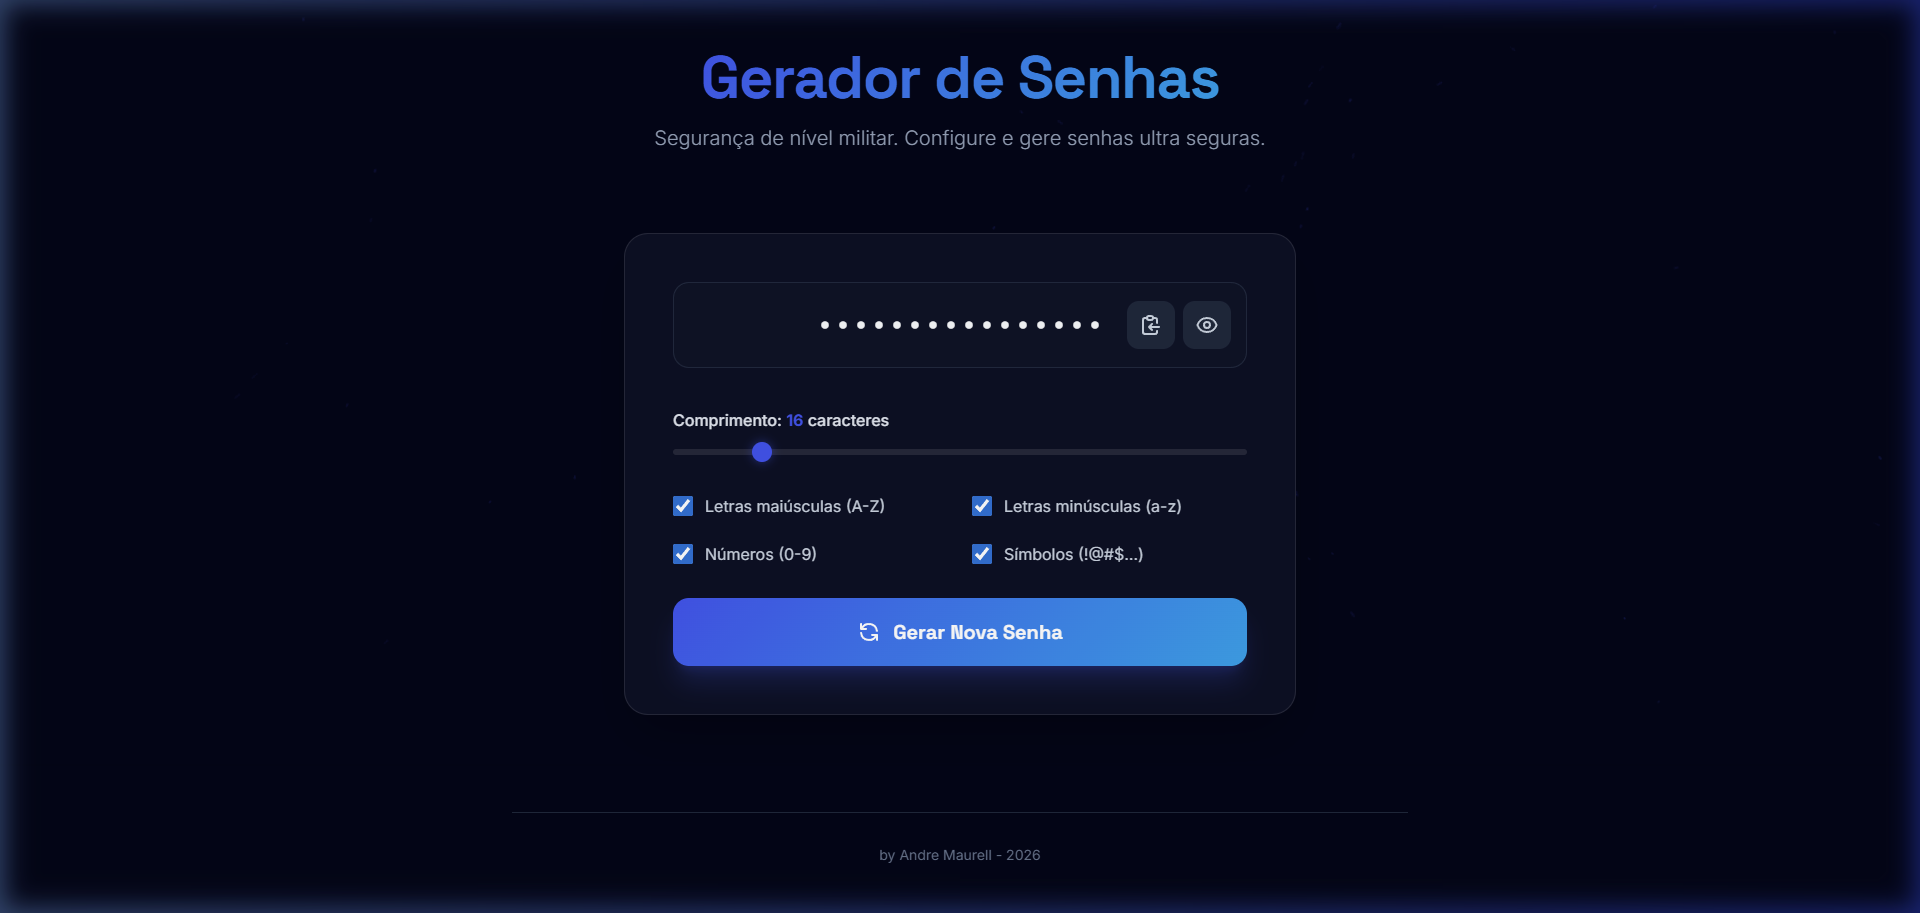
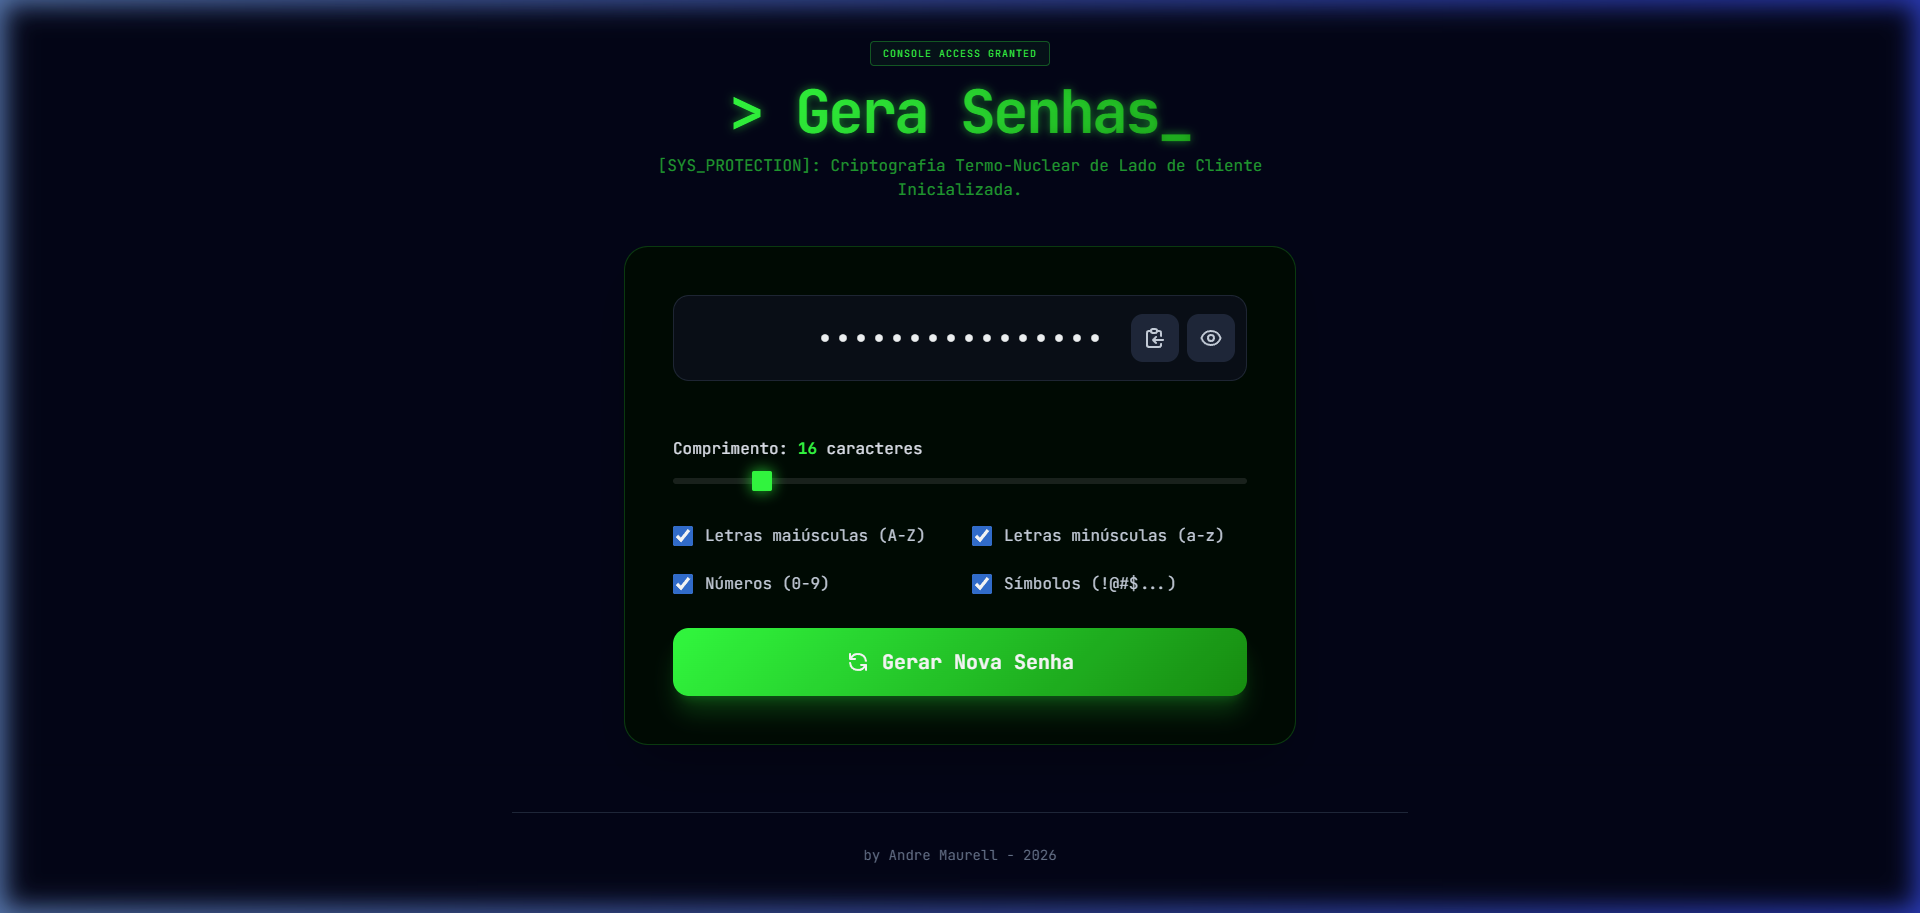
docs: update README and preview image to reflect Hacker/Matrix theme

Changed region(s): [[0.3125, 0.2453, 0.6875, 0.7974], [0.0, 0.0, 1.0, 1.0], [0.4375, 0.92, 0.5312, 0.9507]]

diff --git a/README.md b/README.md
@@ -15,8 +15,8 @@ O **Gera Senhas** é uma aplicação web de alta performance voltada para a gera
 ### 🎯 Funcionalidades
 - **Geração CSPRNG**: Utiliza `window.crypto` para aleatoriedade de nível militar.
 - **Customização Total**: Controle de comprimento (8-64 caracteres) e tipos de caracteres (Maiúsculas, Minúsculas, Números, Símbolos).
-- **Interface Premium**: Design Neo-Noir com glassmorphism e animações fluidas.
-- **Arte Algorítmica**: Fundo dinâmico com Flow Field em p5.js.
+- **Interface Hacker**: Design Matrix-Style com glassmorphism, tipografia terminal (JetBrains Mono) e brilho neon.
+- **Arte Algorítmica**: Fundo dinâmico com Matrix Rain (Chuva de Código) em p5.js.
 - **Privacidade Total**: Processamento 100% local, sem persistência ou transmissão de dados.
 
 ### 🏗 Arquitetura Técnica (POO & SOLID)
@@ -61,8 +61,8 @@ Devido ao uso de recursos modernos de hardware (Web Crypto API) e scripts extern
 ### 🎯 Features
 - **CSPRNG Generation**: Uses `window.crypto` for military-grade randomness.
 - **Total Customization**: Control over length (8-64 characters) and character types.
-- **Premium Interface**: Neo-Noir design with glassmorphism and fluid animations.
-- **Algorithmic Art**: Dynamic p5.js background featuring a Flow Field.
+- **Hacker Interface**: Matrix-Style design with glassmorphism, terminal typography (JetBrains Mono), and neon glow.
+- **Algorithmic Art**: Dynamic p5.js background featuring Matrix Rain (Code Rain).
 - **Zero-Trust Privacy**: 100% local processing; no data is stored or transmitted.
 
 ### 🏗 Technical Architecture
